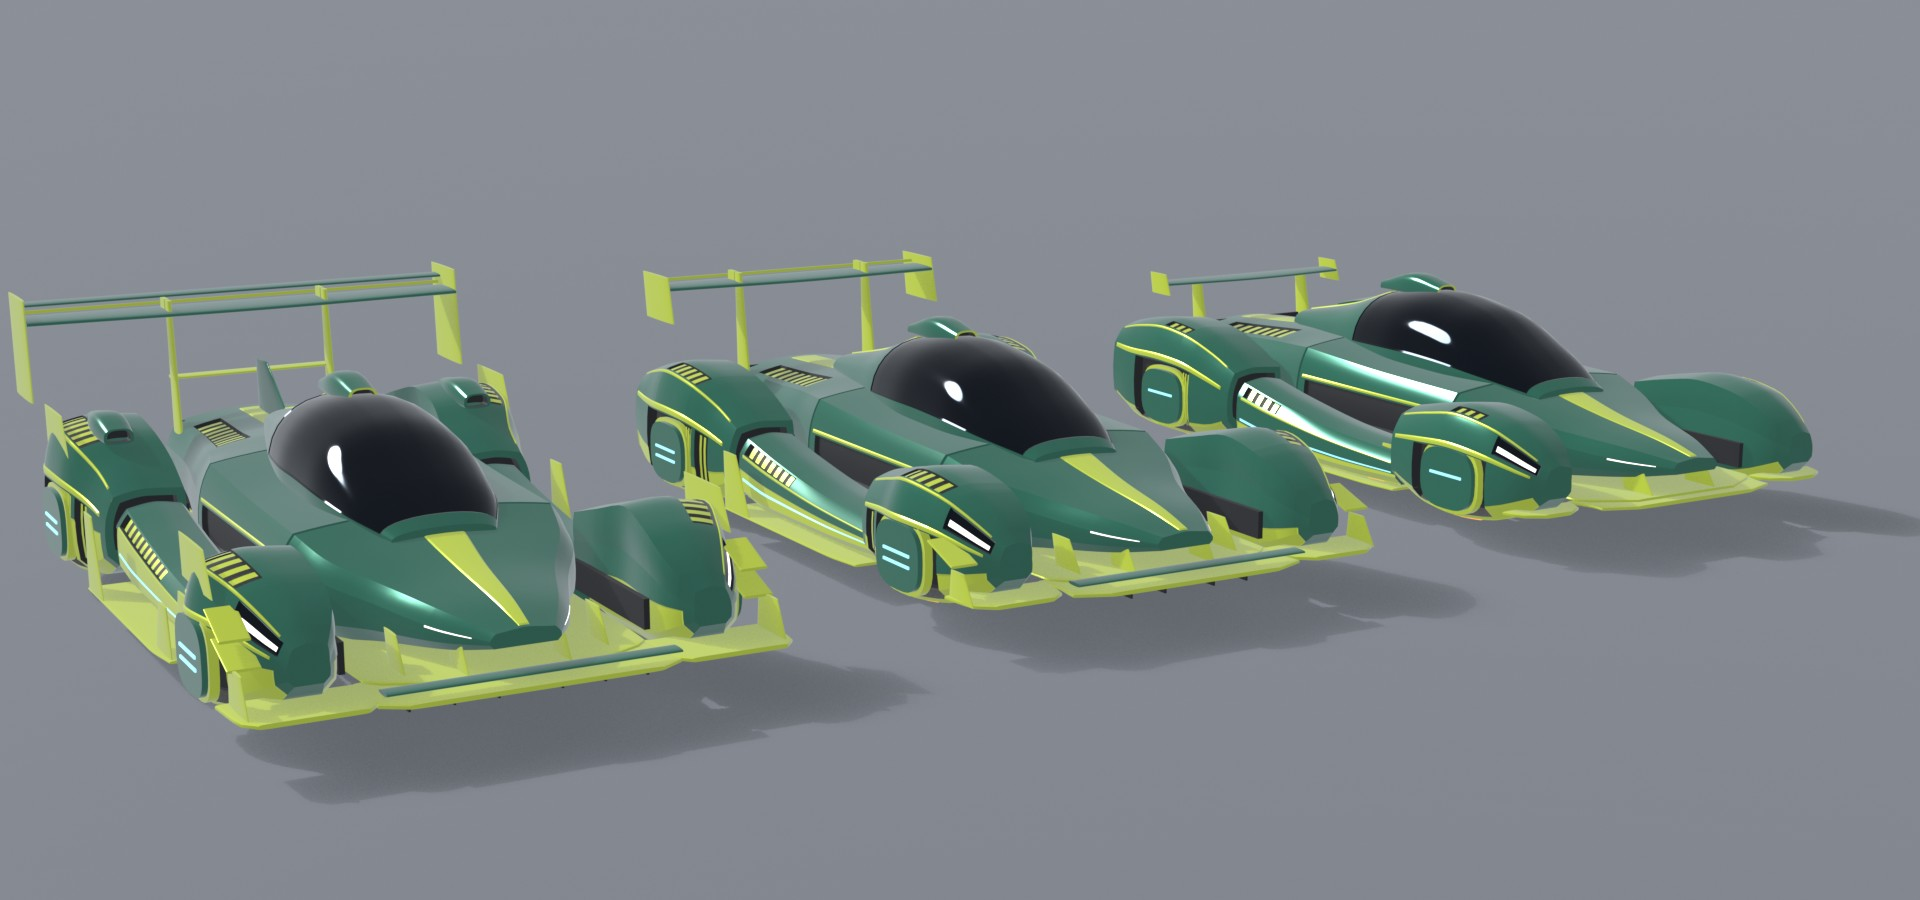
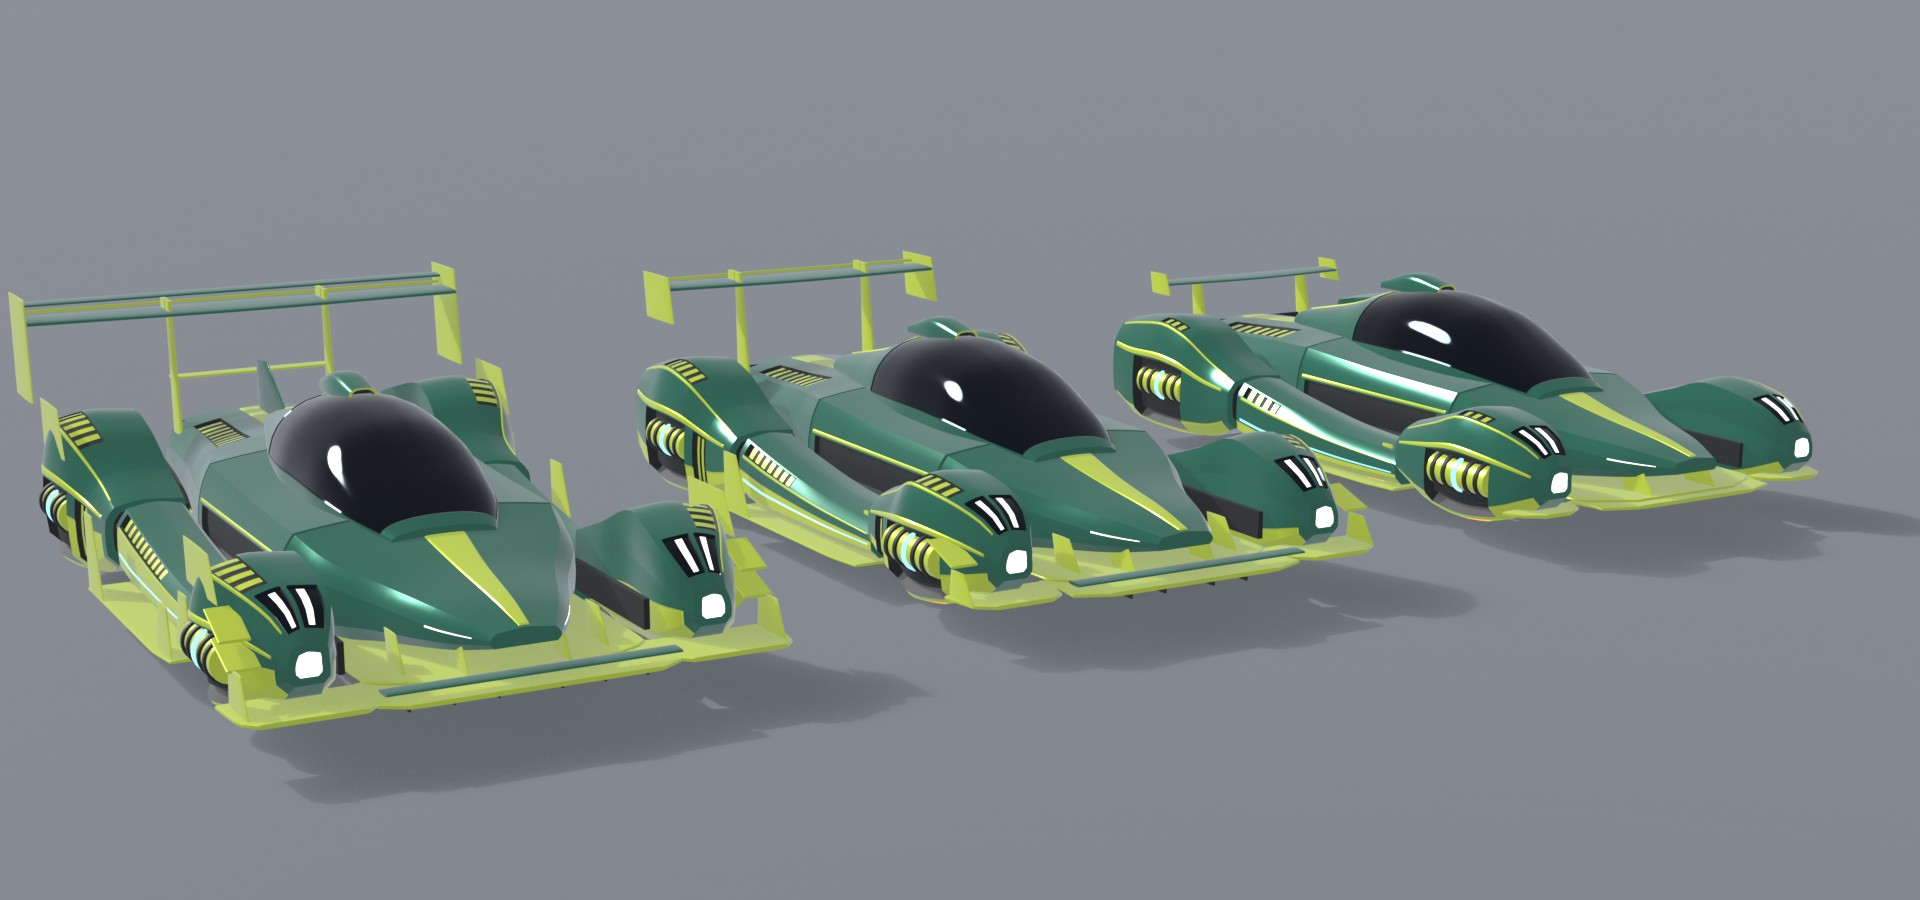
garage: Exotic cars C to F - one engine-side design per car, headlights on the fender fronts, tail lamp clean-up

diff --git a/scripts/exotic_category/mesh/cars2.py b/scripts/exotic_category/mesh/cars2.py
@@ -12,12 +12,14 @@
                 outline accents, open tail, twin hexagonal burners. Fenders: tall narrow peaks that
                 fall away sharply behind the front arch; the tallest rear pontoons.
 
-All four keep the flowing fender-over-arch construction of cars A and B; they differ in profile.
+All four keep the flowing fenders of cars A and B but differ in profile, and each has its own engine
+side: C a smooth flank with one lit slot, D upright body-colour gills, E plain upright slots, F an open
+arch showing a turbine barrel. Headlights sit on the front of the fenders.
 
 Visual language, nose and tail:
   C  spine and blade: long pointed shark nose, a spine from nose tip through the glass, a tall chopped
      tail with stepped lamp blades and a red centre spine.
-  D  soft and deep: thick rounded bullnose with a big mouth and upright corner lamps; a tail that
+  D  soft and deep: thick rounded bullnose with a big mouth; triple lamp bars on the fender fronts; a tail that
      slopes down to a low edge, upright lamp blades, a flared fishtail burner.
   E  valley and bar: short low nose that droops between the tall fenders, clean, with a full-width
      light bar front and rear and twin low intakes.
@@ -28,7 +30,7 @@ Each has three versions per slot (STD road car, GT race kit, EVO full kit), buil
 import exokit as K
 from exokit import GAP, SEAM_F, SEAM_R, SIDE_F, SIDE_R, Hull, Loft, R, box
 from cars import (LVL, TRIMS, blade, burner, canard, dfin, fender_kit, fender_regions, flange, flared, lift_glow,
-                  louvres, plane, race_wing, rect, shell, slab, tube)
+                  louvres, plane, race_wing, rect, slab, tube)
 
 
 # ---------------------------------------------------------------- shared builders
@@ -41,13 +43,27 @@ def tub(extra=()):
 
 
 def fender(st, peak, trim, front, style, creases=(1, 2, 3, 4), caps=(False, False), archw=1.7, vent=None,
-           extra=(), shell_kw=None, slats=False, reach=2.2, ups=(0, 0.1, 0.2)):
-    """Engine fender over a dark arch: rocker, arch, optional louvred top vent, shell, kit hardware."""
+           extra=(), side="smooth", reach=2.2, ups=(0, 0.1, 0.2)):
+    """Engine fender: rocker, optional louvred top vent, kit hardware, and one of four side designs.
+
+    side: "smooth" a clean flank with one slim lit slot; "gills" a recess full of upright body-colour
+    louvres; "slots" plain upright vents under a light line; "open" a deep arch showing a turbine barrel.
+    """
     lvl = LVL[trim]
     pod = Hull(flared(st, peak, (0, 0.3, 0.5)[lvl], ups[lvl], reach), creases=creases, **style)
     z0, z1 = st[0][0], st[-1][0]
-    regs = [R(z0 + 0.3, z1 - 0.2, 1.0, (2.05, 2.3, 2.6)[lvl], "secondary", 0.02),
-            R(peak - archw, peak + archw, 1.25, 2.92, "detail", 0.33, side=1)]
+    regs = [R(z0 + 0.3, z1 - 0.2, 1.0, (2.05, 2.3, 2.6)[lvl], "secondary", 0.02)]
+    if side == "smooth":
+        regs.append(R(peak - 1.6, peak + 1.6, 2.2, 2.46, "detail", 0.22, side=1))
+    elif side == "gills":
+        regs.append(R(peak - archw, peak + archw, 1.55, 2.86, "detail", 0.28, side=1))
+    elif side == "slots":
+        n = 3 + (lvl > 0)
+        for i in range(n):
+            a = peak - (1.35 if n == 3 else 1.6) + i * (1.05 if n == 3 else 0.87)
+            regs.append(R(a, a + 0.6, 1.5, 2.88, "detail", 0.3, side=1))
+    else:
+        regs.append(R(peak - archw, peak + archw, 1.25, 2.92, "detail", 0.36, side=1))
     v = vent[lvl] if vent else None
     if v:
         regs.append(R(peak + v[0], peak + v[1], v[2], v[3], "detail", 0.13, side=1))
@@ -55,12 +71,22 @@ def fender(st, peak, trim, front, style, creases=(1, 2, 3, 4), caps=(False, Fals
     pod.build("skin", "primary", mirror=True, caps=caps, regions=regs)
     if v:
         louvres(pod, "top", peak + v[0] + 0.1, peak + v[1] - 0.1, v[2] + 0.06, v[3] - 0.06, v[4], off=-0.05)
-    if slats:
-        for i in range(4):
-            t = peak - (archw - 0.12 - i * 0.13)
-            pod.patch(f"arch{i}", t - 0.03, t + 0.03, 1.4, 2.85, "secondary", off=-0.18, mirror=True)
-    if shell_kw:
-        shell(pod, peak, bars=(1, 2, 2)[lvl], **shell_kw)
+    if side == "smooth":
+        pod.patch("flank", peak - 1.5, peak + 1.5, 2.28, 2.38, "neon", off=-0.14, mirror=True)
+    elif side == "gills":
+        louvres(pod, "gill", peak - archw + 0.12, peak + archw - 0.12, 1.62, 2.8, 7 + lvl, ch="primary", off=-0.05,
+                w=0.42)
+    elif side == "slots":
+        pod.patch("flank", peak - 1.5, peak + 1.5, 2.94, 2.99, "neon", off=0.02, mirror=True)
+    else:
+        q = pod.params(peak)
+        x = q["cx"] + q["w"] - 0.52
+        lo, hi = q["yb"] + q["rb"], q["ys"]
+        y, r = (lo + hi) / 2, min(0.5, (hi - lo) / 2 - 0.22)
+        tube(peak - archw + 0.2, peak + archw - 0.2, x, y, r).build("barrel", "secondary", mirror=True)
+        for i in range(5):
+            z = peak - archw + 0.5 + i * (2 * archw - 1.0) / 4
+            tube(z - 0.07, z + 0.07, x, y, r + 0.07).build(f"band{i}", "neon" if i == 2 else "detail", mirror=True)
     fender_kit(pod, peak, lvl, front)
     lift_glow(pod, [(peak - 1.0, peak + 1.0)])
     return pod, lvl
@@ -144,7 +170,7 @@ SILL_ST = [(-5.2, dict(yb=-0.8, yt=0.4, ys=0.0)), (-2.0, dict(yt=0.65, ys=0.15))
 
 # ---------------------------------------------------------------- car C: clean concept coupe
 
-C_POD = dict(rb=0.45, tum=0.5, drop=0.3, tumi=0.03, dropi=0.12, wcf=0.4, d2=0.03, crown=0.11)
+C_POD = dict(rb=0.45, tum=0.5, drop=0.3, tumi=0.03, dropi=0.12, wcf=0.4, d2=0.03, crown=0.11, cs=0.03)
 C_VENT = (None, (-1.3, 0.9, 4.15, 5.1, 5), (-1.5, 1.1, 4.1, 5.3, 6))
 
 
@@ -189,9 +215,10 @@ def car_c():
               (-7.2, dict(cx=5.12, w=1.2, wi=1.12, yb=-0.95, yt=1.6, ys=0.85)),
               (-5.4, dict(SIDE_F, yb=-0.1, yt=1.15, ys=0.6, rb=0.2))]
         pod, _ = fender(st, -8.9, trim, True, C_POD, creases=(1, 2), caps=(True, False), vent=C_VENT,
-                        extra=[R(-11.7, -9.8, 2.84, 2.96, "lights", -0.01, side=1)],
-                        shell_kw=dict(half=1.3, y0=-0.85, y1=0.95, nt=2.0))
-        box("blade", (4.35, 0.35, -11.5), (0.1, 0.8, 0.12), "lights", mirror=True)
+                        side="smooth")
+        pod.cap("lampface", "min", "lights", scale=0.72, push=-0.03, mirror=True)
+        for sd in (1, -1):   # a long running light down the centre of the fender top
+            pod.patch(f"drl{sd}", -11.85, -9.5, 5.72, 6.0, "lights", side=sd, off=0.02, mirror=True)
         pod.throat("noz", "max", lip="secondary", back="thrust", scale=(0.78, 0.84, 0.88)[lvl], depth=0.5, mirror=True)
         front_aero(lvl, -12.05, nt=4.0)
         flange(-10.6, -5.6, 0.5)
@@ -210,9 +237,9 @@ def car_c():
         if lvl:
             louvres(tail, "deck", 6.1, 10.1, 4.25, 4.85, 8, off=-0.07)
         tail.throat("fascia", "max", lip="primary", scale=0.93, depth=0.4)
-        for i, (x, y, w) in enumerate(((2.45, 2.2, 1.9), (2.8, 1.92, 1.2), (3.0, 1.64, 0.8))):
-            box(f"lamp{i}", (x, y, 11.2), (w, 0.1, 0.14), "lights_red", mirror=True)
-        box("spinelamp", (0, 1.75, 11.2), (0.12, 1.3, 0.14), "lights_red")
+        for i, (x, y, w) in enumerate(((2.05, 2.2, 2.5), (2.5, 1.86, 1.6))):
+            box(f"lamp{i}", (x, y, 11.2), (w, 0.16, 0.14), "lights_red", mirror=True)
+        box("spinelamp", (0, 1.75, 11.2), (0.14, 1.3, 0.14), "lights_red")
         tail_kit(lvl, (2.9,), nt=4.0)
 
         K.begin(c, "RPOD", trim)
@@ -222,8 +249,8 @@ def car_c():
               (8.2, dict(cx=5.19, w=1.3, wi=1.22, yb=-1.1, yt=2.62, ys=1.55)),
               (9.6, dict(cx=5.14, w=1.22, wi=1.2, yb=-1.0, yt=2.3, ys=1.4)),
               (10.6, dict(cx=5.05, w=1.0, wi=1.03, yb=-0.6, yt=1.85, ys=1.1))]
-        pod, _ = fender(st, 8.0, trim, False, C_POD, creases=(1, 2), vent=C_VENT,
-                        shell_kw=dict(half=1.3, y0=-0.85, y1=0.95, nt=2.0), reach=3.0, ups=(0, 0.15, 0.3))
+        pod, _ = fender(st, 8.0, trim, False, C_POD, creases=(1, 2), vent=C_VENT, side="smooth", reach=3.0,
+                        ups=(0, 0.15, 0.3))
         pod.throat("intake", "min", lip="primary", scale=0.8, depth=0.5, mirror=True)
         pod.throat("noz", "max", lip="secondary", back="thrust", scale=(0.8, 0.85, 0.9)[lvl], depth=0.5, mirror=True)
         rear_kit(pod, lvl)
@@ -245,8 +272,8 @@ def car_c():
 
         K.begin(c, "WING", trim)
         if lvl == 0:   # clean lip on two stubs
-            plane("lip", 3.7, 11.2, 0.4, 2.84, 2.96, "primary", tip=(11.3, 0.32))
-            blade("stub", 2.6, 1.25, 2.88, (10.7, 11.3), (10.9, 11.4), "secondary")
+            plane("lip", 3.7, 11.2, 0.4, 2.76, 2.88, "primary", tip=(11.3, 0.32))
+            blade("stub", 2.6, 2.5, 2.8, (10.7, 11.3), (10.9, 11.4), "secondary")
         elif lvl == 1:
             race_wing(4.6, 11.2, 0.85, 4.3, 2.8, plate=(3.6, 4.8))
         else:
@@ -290,8 +317,6 @@ def car_d():
         louvres(nose, "hood", vent[0] + 0.08, vent[1] - 0.08, vent[2] + 0.05, vent[3] - 0.05, vent[4], off=-0.08)
         nose.throat("mouth", "min", lip="primary", scale=0.74, depth=0.6)
         box("mouthbar", (0, 0.5, -11.95), (3.6, 0.07, 0.1), "secondary")
-        nose.patch("lamp", -12.15, -11.95, 2.15, 2.95, "lights", off=0.03, mirror=True)
-        nose.patch("lamp2", -11.8, -11.66, 2.3, 2.95, "lights", off=0.03, mirror=True)
         nose_splitter(lvl, -12.3, 2.4, 3.3, nt=4.0)
 
         K.begin(c, "FPOD", trim)
@@ -302,10 +327,10 @@ def car_d():
               (-6.8, dict(cx=5.12, w=1.22, wi=1.12, yb=-0.95, yt=1.95, ys=1.0)),
               (-5.4, dict(SIDE_F, yb=-0.1, yt=1.5, ys=0.75, rb=0.2))]
         pod, _ = fender(st, -8.2, trim, True, D_POD, creases=(1, 2, 3), caps=(True, False), vent=D_VENT,
-                        archw=1.8, extra=[R(-11.75, -10.45, 3.4, 4.6, "glass", 0.1, side=1)],
-                        shell_kw=dict(half=1.45, y0=-0.75, y1=0.8, nt=3.0))
-        for i, t in enumerate((-11.62, -11.22, -10.84)):
-            pod.patch(f"lamp{i}", t, t + 0.26, 3.75, 4.3, "lights", off=-0.05, mirror=True)
+                        archw=1.8, extra=[R(-11.85, -10.6, 4.2, 5.85, "glass", 0.1)], side="gills")
+        for i, t in enumerate((-11.72, -11.34, -10.96)):
+            for sd in (1, -1):
+                pod.patch(f"lamp{i}{sd}", t, t + 0.24, 4.4, 5.95, "lights", side=sd, off=-0.05, mirror=True)
         pod.throat("noz", "max", lip="secondary", back="thrust", scale=(0.78, 0.84, 0.88)[lvl], depth=0.5, mirror=True)
         front_aero(lvl, -12.1, nt=4.0)
         flange(-10.4, -5.6, 0.5)
@@ -322,8 +347,8 @@ def car_d():
             R(8.6, 11.5, 0.0, 2.3, "secondary", 0.02), R(deck, 10.6, 4.2, 4.9, "detail", 0.14)])
         louvres(tail, "deck", deck + 0.1, 10.5, 4.25, 4.85, 8 + lvl * 2, off=-0.07)
         tail.throat("fascia", "max", lip="primary", scale=0.9, depth=0.3)
-        for i, (x, h) in enumerate(((3.0, 0.9), (2.68, 0.62), (2.4, 0.36))):
-            box(f"lamp{i}", (x, 0.98, 11.38), (0.14, h, 0.14), "lights_red", mirror=True)
+        for i, (x, h) in enumerate(((2.5, 0.5), (2.15, 0.38), (1.8, 0.26))):
+            box(f"lamp{i}", (x, 0.85, 11.3), (0.2, h, 0.14), "lights_red", mirror=True)
         tail_kit(lvl, (2.8, 3.2), nt=4.0)
 
         K.begin(c, "RPOD", trim)
@@ -333,8 +358,8 @@ def car_d():
               (7.8, dict(cx=5.18, w=1.3, wi=1.22, yb=-1.1, yt=2.8, ys=1.55)),
               (9.4, dict(cx=5.12, w=1.15, wi=1.15, yb=-0.9, yt=2.3, ys=1.3)),
               (10.6, dict(cx=5.05, w=0.92, wi=0.95, yb=-0.4, yt=1.8, ys=1.05))]
-        pod, _ = fender(st, 6.8, trim, False, D_POD, creases=(1, 2, 3), vent=D_VENT, archw=1.8,
-                        shell_kw=dict(half=1.45, y0=-0.75, y1=0.8, nt=3.0), slats=True, reach=3.0, ups=(0, 0.15, 0.3))
+        pod, _ = fender(st, 6.8, trim, False, D_POD, creases=(1, 2, 3), vent=D_VENT, archw=1.8, side="gills",
+                        reach=3.0, ups=(0, 0.15, 0.3))
         pod.throat("intake", "min", lip="primary", scale=0.8, depth=0.5, mirror=True)
         pod.throat("noz", "max", lip="secondary", back="thrust", scale=(0.82, 0.86, 0.9)[lvl], depth=0.6, mirror=True)
         rear_kit(pod, lvl)
@@ -413,8 +438,7 @@ def car_e():
               (-7.4, dict(cx=5.17, w=1.27, wi=1.18, yb=-1.1, yt=2.22, ys=1.2)),
               (-6.4, dict(cx=5.12, w=1.2, wi=1.15, yb=-0.9, yt=1.95, ys=1.05)),
               (-5.4, dict(SIDE_F, yb=-0.1, yt=1.45, ys=0.7, rb=0.3))]
-        pod, _ = fender(st, -8.4, trim, True, E_POD, archw=1.35, vent=E_VENT,
-                        shell_kw=dict(half=1.05, y0=-0.85, y1=1.05, nt=6.0))
+        pod, _ = fender(st, -8.8, trim, True, E_POD, vent=E_VENT, side="slots")
         pod.throat("housing", "min", lip="primary", scale=0.82, depth=0.35, mirror=True)
         for i, (dx, y) in enumerate(((-0.3, 0.72), (0.3, 0.72), (-0.3, 0.0), (0.3, 0.0))):
             box(f"point{i}", (5.05 + dx, y, -12.02), (0.1, 0.52, 0.1), "lights", mirror=True)
@@ -442,8 +466,7 @@ def car_e():
               (5.6, dict(cx=5.18, w=1.3, wi=1.22, yb=-1.1, yt=2.75, ys=1.55)),
               (9.6, dict(cx=5.18, w=1.3, wi=1.22, yb=-1.1, yt=2.75, ys=1.55)),
               (10.6, dict(cx=5.14, w=1.2, wi=1.2, yb=-0.8, yt=2.55, ys=1.5))]
-        pod, _ = fender(st, 7.5, trim, False, E_POD, archw=1.35, vent=E_VENT,
-                        shell_kw=dict(half=1.05, y0=-0.85, y1=1.05, nt=6.0), slats=True, reach=3.0, ups=(0, 0.15, 0.3))
+        pod, _ = fender(st, 7.5, trim, False, E_POD, vent=E_VENT, side="slots", reach=3.0, ups=(0, 0.15, 0.3))
         pod.throat("intake", "min", lip="primary", scale=0.8, depth=0.5, mirror=True)
         pod.throat("noz", "max", lip="secondary", back="detail", scale=0.9, depth=0.5, mirror=True)
         p = pod.params(10.6)
@@ -530,9 +553,10 @@ def car_f():
               (-7.0, dict(cx=5.15, w=1.15, wi=1.1, yb=-1.0, yt=1.8, ys=0.95)),
               (-5.4, dict(cx=5.1, w=1.0, wi=1.05, yb=-0.5, yt=1.3, ys=0.7))]
         pod, _ = fender(st, -8.6, trim, True, F_POD, caps=(True, False), vent=F_VENT, archw=1.5,
-                        extra=[R(-11.55, -10.1, 3.2, 3.9, "glass", 0.08, side=1), *f_accents(-11.8, -5.4)],
-                        shell_kw=dict(half=1.05, y0=-0.9, y1=1.15, nt=3.0))
-        pod.patch("lamp", -11.45, -10.2, 3.36, 3.56, "lights", off=-0.04, mirror=True)
+                        extra=[R(-11.5, -10.3, 4.3, 5.8, "glass", 0.08), *f_accents(-11.8, -5.4)], side="open")
+        pod.cap("lampface", "min", "lights", scale=0.6, push=-0.03, mirror=True)
+        for sd in (1, -1):   # slit lamps under glass on the front of the fender top
+            pod.patch(f"lamp{sd}", -11.4, -10.4, 4.9, 5.3, "lights", side=sd, off=-0.04, mirror=True)
         pod.throat("noz", "max", lip="secondary", back="thrust", scale=(0.84, 0.87, 0.9)[lvl], depth=0.6, mirror=True)
         front_aero(lvl, -11.9, nt=7.0, y=0.45)
         flange(-10.4, -5.6, 0.5)
@@ -563,7 +587,7 @@ def car_f():
                (9.4, dict(cx=5.16, w=1.25, wi=1.2, yb=-1.0, yt=2.68, ys=1.5)),
                (10.6, dict(cx=5.14, w=1.16, wi=1.19, yb=-0.6, yt=2.45, ys=1.6))]
         pod, _ = fender(rst, 7.6, trim, False, F_POD, vent=F_VENT, extra=f_accents(3.6, 10.6), archw=1.5,
-                        shell_kw=dict(half=1.05, y0=-0.9, y1=1.15, nt=3.0), slats=True, reach=3.0, ups=(0, 0.15, 0.3))
+                        side="open", reach=3.0, ups=(0, 0.15, 0.3))
         pod.throat("intake", "min", lip="primary", scale=0.8, depth=0.5, mirror=True)
         pod.throat("noz", "max", lip="secondary", back="thrust", scale=(0.84, 0.87, 0.9)[lvl], depth=0.6, mirror=True)
         p = pod.params(10.6)
